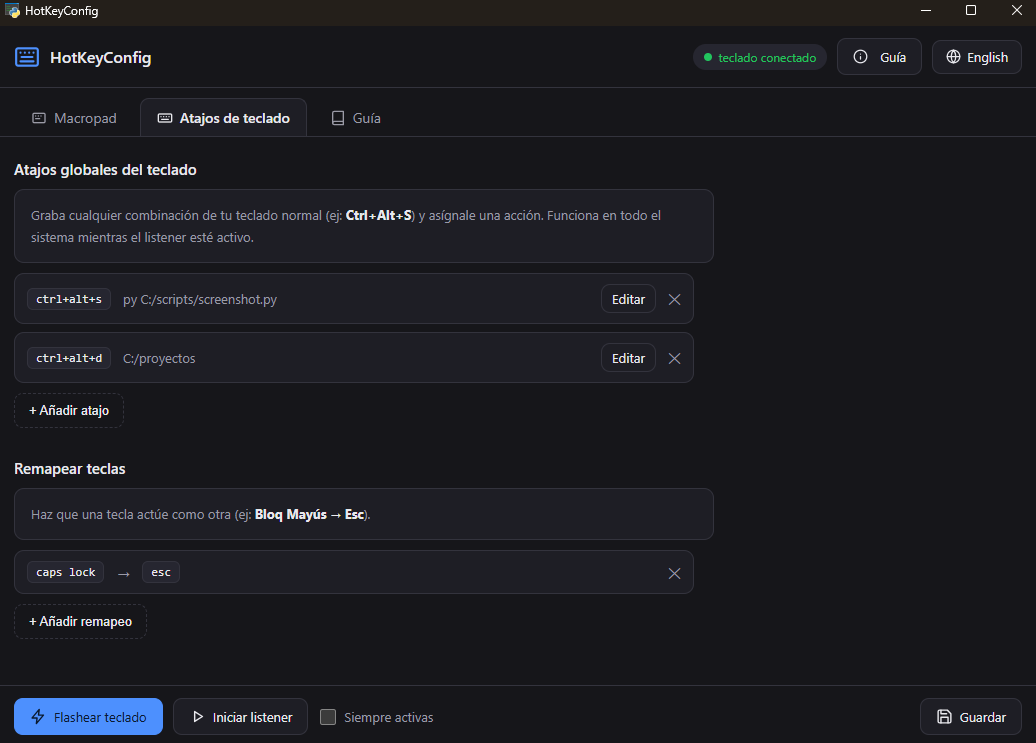
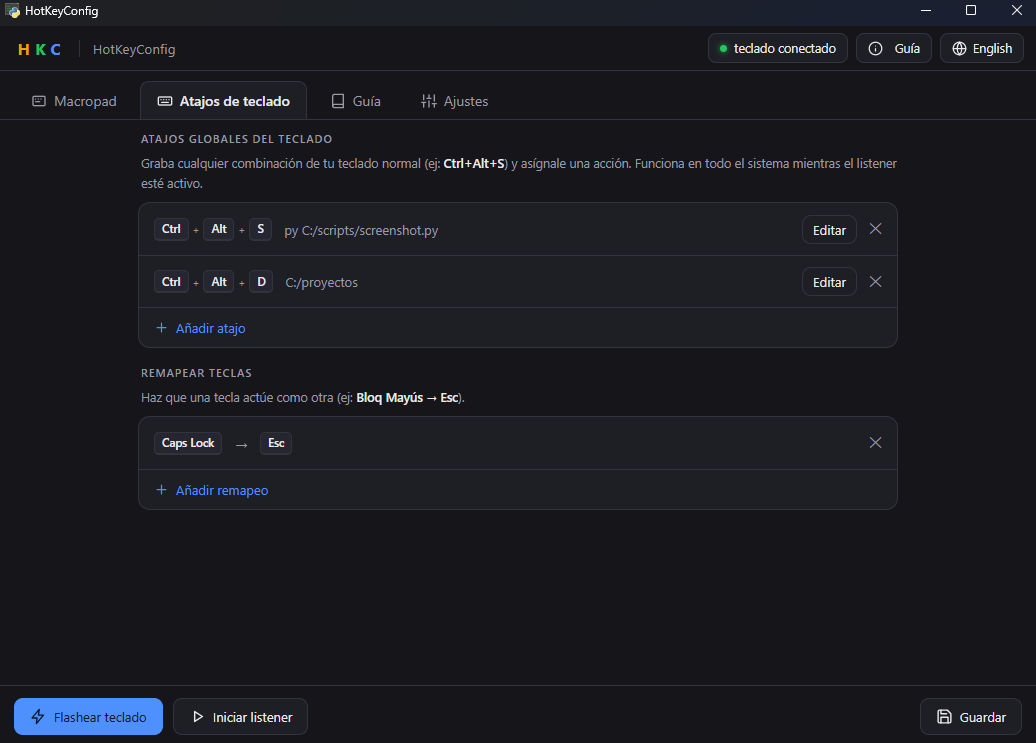
Release 0.9.0
New Settings tab, the same layout across every tab, and the macropad finally
fits in the window it opens at.

Screenshots were regenerated: they had been showing the 0.8.0 header since
0.8.1, and there is one more tab to show now.

diff --git a/scripts/screenshots.py b/scripts/screenshots.py
@@ -240,7 +240,9 @@ SHOTS = [
     ("03-shortcuts", "closeEditor(); switchSection('keys'); ''"),
     ("04-guide", "switchSection('guide'); ''"),
     # El catalogo de teclados desplegado: es lo que responde a "¿vale para el mio?".
-    ("05-models", "switchSection('pad'); $('lbModel')._enh.trigger.click(); ''"),
+    # Vive en Ajustes desde la 0.9.0, no en Macropad.
+    ("05-models", "switchSection('cfg'); $('lbModel')._enh.trigger.click(); ''"),
+    ("06-settings", "closeAllMenus(); switchSection('cfg'); ''"),
 ]
 
 
@@ -278,6 +280,7 @@ def run_shots(window) -> None:
 
 
 def main() -> None:
+    os.environ.setdefault("WEBVIEW2_ADDITIONAL_BROWSER_ARGUMENTS", "--disable-http-cache")
     tmp = Path(tempfile.gettempdir()) / "hotkeyconfig-demo-profile.yaml"
     save(demo_profile(), tmp)
 

diff --git a/hotkeyconfig/__init__.py b/hotkeyconfig/__init__.py
@@ -6,4 +6,4 @@ optional alternative backend), and a local listener that watches for those combo
 and runs actions (scripts, apps, text, media, windows and so on).
 """
 
-__version__ = "0.8.2"
+__version__ = "0.9.0"

diff --git a/README.md b/README.md
@@ -62,7 +62,7 @@ desktop app that programs the keyboard **over native Windows HID**, then runs yo
   <img src="branding/screenshots/en/01-macropad.png" alt="HotKeyConfig main screen" width="820" />
 </div>
 
-<p align="center"><em>Main screen: layers, per layer RGB light, your keyboard picked from a list, and every key showing the action bound to it.</em></p>
+<p align="center"><em>Main screen: layers, per layer RGB light, and every key showing the action bound to it.</em></p>
 
 | Pick your keyboard | Action editor |
 | :--: | :--: |
@@ -72,6 +72,11 @@ desktop app that programs the keyboard **over native Windows HID**, then runs yo
 | Keyboard shortcuts | Interactive guide |
 | :--: | :--: |
 | <img src="branding/screenshots/en/03-shortcuts.png" alt="Global shortcuts and remaps" /> | <img src="branding/screenshots/en/04-guide.png" alt="Interactive guide" /> |
+| Every combo drawn key by key, the way it sits on the keyboard. | A tour through the real window, highlighting each button. |
+
+| Settings | |
+| :--: | :--: |
+| <img src="branding/screenshots/en/06-settings.png" alt="Settings tab" /> | Start with Windows, whether the keys answer right now, which keyboard you have, where your configuration lives, and the language. |
 
 ---
 

diff --git a/README.es.md b/README.es.md
@@ -63,7 +63,7 @@ acciones.
   <img src="branding/screenshots/es/01-macropad.png" alt="Pantalla principal de HotKeyConfig" width="820" />
 </div>
 
-<p align="center"><em>Pantalla principal: capas, luz RGB por capa, tu teclado elegido de una lista y cada tecla mostrando la acción que tiene asignada.</em></p>
+<p align="center"><em>Pantalla principal: capas, luz RGB por capa y cada tecla mostrando la acción que tiene asignada.</em></p>
 
 | Elige tu teclado | Editor de acciones |
 | :--: | :--: |
@@ -73,6 +73,11 @@ acciones.
 | Atajos de teclado | Guía interactiva |
 | :--: | :--: |
 | <img src="branding/screenshots/es/03-shortcuts.png" alt="Atajos globales y remapeos" /> | <img src="branding/screenshots/es/04-guide.png" alt="Guía interactiva" /> |
+| Cada combinación dibujada tecla a tecla, como está en el teclado. | Un tour que te lleva por la ventana real, resaltando cada botón. |
+
+| Ajustes | |
+| :--: | :--: |
+| <img src="branding/screenshots/es/06-settings.png" alt="Pestaña de ajustes" /> | Arrancar con Windows, si las teclas responden ahora mismo, qué teclado tienes, dónde está tu configuración e idioma. |
 
 ---
 
